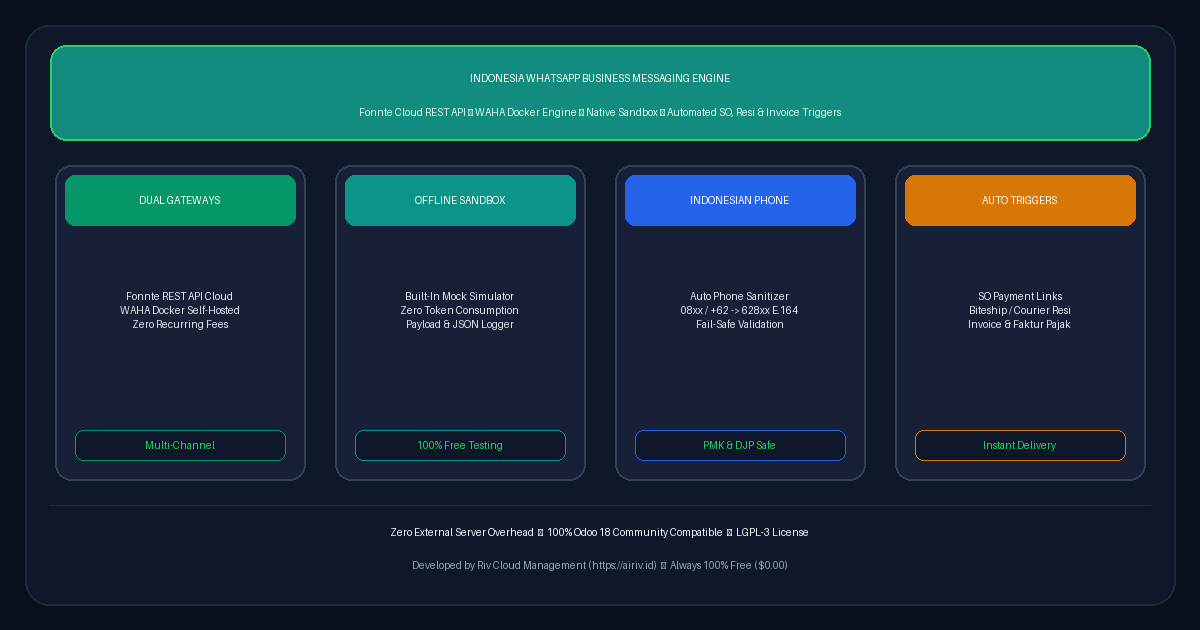
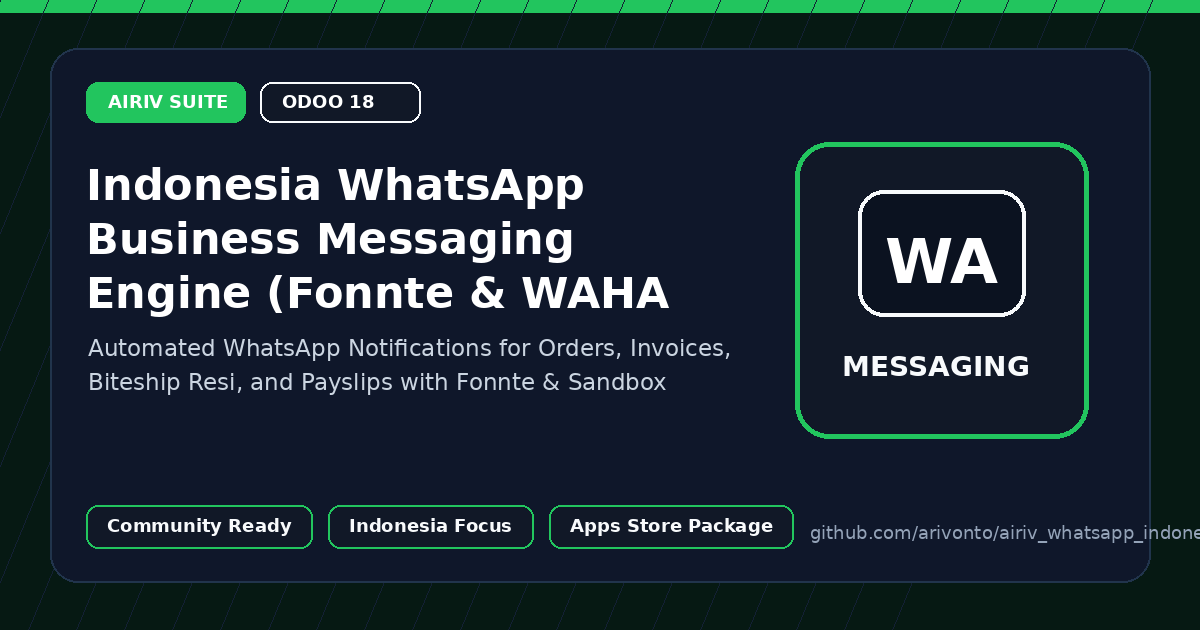
Refresh Odoo Apps Store assets and metadata

diff --git a/airiv_whatsapp_indonesia/static/description/index.html b/airiv_whatsapp_indonesia/static/description/index.html
@@ -1,172 +1,38 @@
 <!DOCTYPE html>
-<html lang="id">
+<html lang="en">
 <head>
-    <meta charset="utf-8"/>
-    <meta name="viewport" content="width=device-width, initial-scale=1.0"/>
-    <title>Indonesia WhatsApp Business Engine & Notification Router</title>
+  <meta charset="utf-8">
+  <meta name="viewport" content="width=device-width, initial-scale=1">
+  <title>Indonesia WhatsApp Business Messaging Engine (Fonnte & WAHA Sandbox)</title>
+  <style>
+    body { margin:0; font-family: Arial, sans-serif; color:#14212f; background:#fff; }
+    .hero { padding:44px; border-radius:18px; background:#08111f; color:#fff; }
+    .badge { display:inline-block; padding:8px 12px; border-radius:999px; background:#0f766e; font-weight:700; font-size:13px; }
+    h1 { font-size:38px; line-height:1.15; margin:20px 0 12px; }
+    .lead { font-size:18px; color:#cbd5e1; max-width:900px; }
+    .grid { display:grid; grid-template-columns:repeat(3,1fr); gap:18px; margin:24px 0; }
+    .card { border:1px solid #e5e7eb; border-radius:14px; padding:22px; background:#fff; }
+    .card h3 { margin-top:0; color:#0f766e; }
+    .section { padding:28px 0; }
+    @media (max-width: 800px) { .grid { grid-template-columns:1fr; } h1 { font-size:30px; } .hero { padding:28px; } }
+  </style>
 </head>
-<body style="font-family: -apple-system, BlinkMacSystemFont, 'Segoe UI', Roboto, Helvetica, Arial, sans-serif; color: #0f172a; background-color: #ffffff; margin: 0; padding: 16px; box-sizing: border-box;">
-
-<!-- 1. Hero Card (Clean High-Contrast Light Theme) -->
-<div style="background-color: #f8fafc; border: 1px solid #cbd5e1; border-top: 6px solid #10b981; border-radius: 12px; padding: 32px 24px; margin-bottom: 32px; text-align: center; box-shadow: 0 4px 6px -1px rgba(0,0,0,0.05);">
-    <div style="display: inline-block; background-color: #10b981; color: #ffffff; font-size: 12px; font-weight: 800; padding: 6px 14px; border-radius: 20px; margin-bottom: 14px; text-transform: uppercase; letter-spacing: 0.5px;">
-        🇮🇩 WHATSAPP BUSINESS NOTIFICATION HUB
+<body>
+  <div class="hero">
+    <span class="badge">AIRIV Suite for Odoo 18</span>
+    <h1>Indonesia WhatsApp Business Messaging Engine (Fonnte & WAHA Sandbox)</h1>
+    <p class="lead">Automated WhatsApp Notifications for Orders, Invoices, Biteship Resi, and Payslips with Fonnte & Sandbox</p>
+  </div>
+  <div class="section">
+    <div class="grid">
+      <div class="card"><h3>Business Ready</h3><p>Packaged as a focused Odoo application for Indonesian operating workflows.</p></div>
+      <div class="card"><h3>Community First</h3><p>Designed for Odoo 18 with clear dependencies, clean manifest metadata, and Apps Store assets.</p></div>
+      <div class="card"><h3>AIRIV UX</h3><p>Part of the AIRIV vertical ERP suite with consistent identity, iconography, and product positioning.</p></div>
     </div>
-    <h1 style="font-weight: 800; font-size: 28px; color: #0f172a; margin-top: 0; margin-bottom: 12px; line-height: 1.3;">
-        Indonesia WhatsApp Business Engine & Notification Router
-    </h1>
-    <p style="font-size: 15.5px; color: #334155; max-width: 850px; margin: 0 auto 20px auto; line-height: 1.65;">
-        Enterprise WhatsApp communication router for Odoo 18. Integrates Fonnte Cloud, self-hosted WAHA (WhatsApp HTTP API Docker), dynamic message templating, and automated event triggers.
-    </p>
-    <div style="display: flex; justify-content: center; gap: 8px; flex-wrap: wrap;">
-        <span style="display: inline-block; background-color: #e2e8f0; color: #0f172a; border: 1px solid #cbd5e1; font-size: 12px; font-weight: 600; padding: 5px 12px; border-radius: 6px;">Odoo 18.0 Community</span>
-        <span style="display: inline-block; background-color: #e2e8f0; color: #0f172a; border: 1px solid #cbd5e1; font-size: 12px; font-weight: 600; padding: 5px 12px; border-radius: 6px;">LGPL-3 License</span>
-        <span style="display: inline-block; background-color: #059669; color: #ffffff; font-size: 12px; font-weight: 700; padding: 5px 12px; border-radius: 6px;">100% Free ($0.00)</span>
-        <span style="display: inline-block; background-color: #e2e8f0; color: #0f172a; border: 1px solid #cbd5e1; font-size: 12px; font-weight: 600; padding: 5px 12px; border-radius: 6px;">Zero External Overhead</span>
-    </div>
-</div>
-
-<!-- 2. Showcase Banner Image -->
-<div style="text-align: center; margin-bottom: 36px;">
-    <img src="banner.png" alt="Indonesia WhatsApp Business Engine & Notification Router" style="border-radius: 12px; border: 1px solid #cbd5e1; max-width: 100%; height: auto; box-shadow: 0 4px 6px -1px rgba(0,0,0,0.08);"/>
-</div>
-
-<!-- 3. Core Pillars -->
-<div style="margin-bottom: 36px;">
-    <div style="text-align: center; margin-bottom: 24px;">
-        <h2 style="font-weight: 800; color: #0f172a; font-size: 22px; margin-top: 0; margin-bottom: 6px;">
-            Core Capabilities & Architecture
-        </h2>
-        <p style="color: #475569; font-size: 14.5px; margin: 0;">
-            Engineered specifically for Indonesian statutory compliance and operational efficiency
-        </p>
-    </div>
-
-    <div style="display: flex; flex-wrap: wrap; gap: 16px;">
-        
-        <div style="flex: 1 1 calc(25% - 16px); min-width: 240px; box-sizing: border-box; margin-bottom: 16px;">
-            <div style="background-color: #ffffff; border: 1px solid #cbd5e1; border-top: 5px solid #10b981; border-radius: 10px; padding: 20px; height: 100%; box-shadow: 0 2px 4px rgba(0,0,0,0.04); box-sizing: border-box;">
-                <h4 style="font-weight: 800; color: #0f172a; margin-top: 0; margin-bottom: 10px; font-size: 16px;">Dual Provider Architecture</h4>
-                <p style="font-size: 13.5px; color: #334155; line-height: 1.6; margin-bottom: 14px;">Seamless switching between Fonnte Cloud Gateway and Free Self-Hosted WAHA Docker.</p>
-                <div style="display: inline-block; background-color: #10b981; color: #ffffff; font-size: 11px; font-weight: 700; padding: 4px 10px; border-radius: 6px; text-transform: uppercase; letter-spacing: 0.5px;">
-                    Fonnte & WAHA
-                </div>
-            </div>
-        </div>
-        
-        <div style="flex: 1 1 calc(25% - 16px); min-width: 240px; box-sizing: border-box; margin-bottom: 16px;">
-            <div style="background-color: #ffffff; border: 1px solid #cbd5e1; border-top: 5px solid #0284c7; border-radius: 10px; padding: 20px; height: 100%; box-shadow: 0 2px 4px rgba(0,0,0,0.04); box-sizing: border-box;">
-                <h4 style="font-weight: 800; color: #0f172a; margin-top: 0; margin-bottom: 10px; font-size: 16px;">Automated Event Triggers</h4>
-                <p style="font-size: 13.5px; color: #334155; line-height: 1.6; margin-bottom: 14px;">Auto-dispatches on Sales confirmation, Delivery status changes, and Invoice generation.</p>
-                <div style="display: inline-block; background-color: #0284c7; color: #ffffff; font-size: 11px; font-weight: 700; padding: 4px 10px; border-radius: 6px; text-transform: uppercase; letter-spacing: 0.5px;">
-                    Auto Triggers
-                </div>
-            </div>
-        </div>
-        
-        <div style="flex: 1 1 calc(25% - 16px); min-width: 240px; box-sizing: border-box; margin-bottom: 16px;">
-            <div style="background-color: #ffffff; border: 1px solid #cbd5e1; border-top: 5px solid #7c3aed; border-radius: 10px; padding: 20px; height: 100%; box-shadow: 0 2px 4px rgba(0,0,0,0.04); box-sizing: border-box;">
-                <h4 style="font-weight: 800; color: #0f172a; margin-top: 0; margin-bottom: 10px; font-size: 16px;">PDF & Dynamic Attachment</h4>
-                <p style="font-size: 13.5px; color: #334155; line-height: 1.6; margin-bottom: 14px;">Sends PDF invoices, thermal receipts, and tracking barcodes directly to WhatsApp numbers.</p>
-                <div style="display: inline-block; background-color: #7c3aed; color: #ffffff; font-size: 11px; font-weight: 700; padding: 4px 10px; border-radius: 6px; text-transform: uppercase; letter-spacing: 0.5px;">
-                    Media Routing
-                </div>
-            </div>
-        </div>
-        
-        <div style="flex: 1 1 calc(25% - 16px); min-width: 240px; box-sizing: border-box; margin-bottom: 16px;">
-            <div style="background-color: #ffffff; border: 1px solid #cbd5e1; border-top: 5px solid #d97706; border-radius: 10px; padding: 20px; height: 100%; box-shadow: 0 2px 4px rgba(0,0,0,0.04); box-sizing: border-box;">
-                <h4 style="font-weight: 800; color: #0f172a; margin-top: 0; margin-bottom: 10px; font-size: 16px;">Phone Sanitization (+62)</h4>
-                <p style="font-size: 13.5px; color: #334155; line-height: 1.6; margin-bottom: 14px;">Automatically cleans and reformats local phone numbers (08... -> +628...).</p>
-                <div style="display: inline-block; background-color: #d97706; color: #ffffff; font-size: 11px; font-weight: 700; padding: 4px 10px; border-radius: 6px; text-transform: uppercase; letter-spacing: 0.5px;">
-                    Data Sanitizer
-                </div>
-            </div>
-        </div>
-        
-    </div>
-</div>
-
-<!-- 4. Key Enterprise Features -->
-<div style="background-color: #f8fafc; border: 1px solid #cbd5e1; border-radius: 12px; padding: 28px 20px; margin-bottom: 36px;">
-    <h3 style="font-weight: 800; color: #0f172a; font-size: 18px; margin-top: 0; margin-bottom: 18px; border-bottom: 2px solid #e2e8f0; padding-bottom: 10px;">
-        Key Enterprise Features & Workflow Automation
-    </h3>
-    <div style="display: flex; flex-wrap: wrap; gap: 16px;">
-        
-        <div style="flex: 1 1 calc(50% - 16px); min-width: 280px; box-sizing: border-box; margin-bottom: 16px;">
-            <div style="background-color: #ffffff; border: 1px solid #e2e8f0; border-left: 4px solid #10b981; border-radius: 8px; padding: 16px; height: 100%; box-sizing: border-box;">
-                <h5 style="font-weight: 700; color: #0f172a; margin-top: 0; margin-bottom: 8px; font-size: 15px;">1. Multi-Template Engine</h5>
-                <p style="color: #334155; font-size: 13.5px; line-height: 1.6; margin: 0;">Customizable message templates with dynamic placeholders (${partner_name}, ${amount_total}).</p>
-            </div>
-        </div>
-        
-        <div style="flex: 1 1 calc(50% - 16px); min-width: 280px; box-sizing: border-box; margin-bottom: 16px;">
-            <div style="background-color: #ffffff; border: 1px solid #e2e8f0; border-left: 4px solid #10b981; border-radius: 8px; padding: 16px; height: 100%; box-sizing: border-box;">
-                <h5 style="font-weight: 700; color: #0f172a; margin-top: 0; margin-bottom: 8px; font-size: 15px;">2. Sandbox Mock Responder</h5>
-                <p style="color: #334155; font-size: 13.5px; line-height: 1.6; margin: 0;">Simulates message delivery logs in local terminal without consuming live WhatsApp quotas.</p>
-            </div>
-        </div>
-        
-        <div style="flex: 1 1 calc(50% - 16px); min-width: 280px; box-sizing: border-box; margin-bottom: 16px;">
-            <div style="background-color: #ffffff; border: 1px solid #e2e8f0; border-left: 4px solid #10b981; border-radius: 8px; padding: 16px; height: 100%; box-sizing: border-box;">
-                <h5 style="font-weight: 700; color: #0f172a; margin-top: 0; margin-bottom: 8px; font-size: 15px;">3. Native Chatter Integration</h5>
-                <p style="color: #334155; font-size: 13.5px; line-height: 1.6; margin: 0;">Logs sent WhatsApp messages and delivery statuses directly inside the record Chatter.</p>
-            </div>
-        </div>
-        
-        <div style="flex: 1 1 calc(50% - 16px); min-width: 280px; box-sizing: border-box; margin-bottom: 16px;">
-            <div style="background-color: #ffffff; border: 1px solid #e2e8f0; border-left: 4px solid #10b981; border-radius: 8px; padding: 16px; height: 100%; box-sizing: border-box;">
-                <h5 style="font-weight: 700; color: #0f172a; margin-top: 0; margin-bottom: 8px; font-size: 15px;">4. Bulk Broadcast Scheduler</h5>
-                <p style="color: #334155; font-size: 13.5px; line-height: 1.6; margin: 0;">Schedules marketing broadcasts, payment reminders, and mass student announcements.</p>
-            </div>
-        </div>
-        
-    </div>
-</div>
-
-<!-- 5. Technical Specifications Table -->
-<div style="margin-bottom: 36px;">
-    <h3 style="font-weight: 800; color: #0f172a; font-size: 18px; margin-top: 0; margin-bottom: 14px;">
-        Module Technical Specifications
-    </h3>
-    <div style="overflow-x: auto;">
-        <table style="width: 100%; border-collapse: collapse; font-size: 13.5px; border: 1px solid #cbd5e1; background-color: #ffffff;">
-            <tbody>
-                <tr style="border-bottom: 1px solid #cbd5e1;">
-                    <td style="font-weight: 700; width: 30%; background-color: #f1f5f9; color: #0f172a; padding: 12px 16px; border-right: 1px solid #cbd5e1;">Framework Compatibility</td>
-                    <td style="color: #0f172a; padding: 12px 16px;">Odoo 18.0 Community Edition (OWL 2.0 & App Drawer Native)</td>
-                </tr>
-                <tr style="border-bottom: 1px solid #cbd5e1;">
-                    <td style="font-weight: 700; background-color: #f1f5f9; color: #0f172a; padding: 12px 16px; border-right: 1px solid #cbd5e1;">License & Price</td>
-                    <td style="color: #0f172a; padding: 12px 16px;">GNU LGPL-3 &bull; <strong style="color: #059669;">Free ($0.00)</strong></td>
-                </tr>
-                <tr style="border-bottom: 1px solid #cbd5e1;">
-                    <td style="font-weight: 700; background-color: #f1f5f9; color: #0f172a; padding: 12px 16px; border-right: 1px solid #cbd5e1;">Dependencies</td>
-                    <td style="color: #0f172a; padding: 12px 16px;"><code style="background-color: #f1f5f9; color: #0f172a; padding: 2px 6px; border-radius: 4px; font-weight: 600;">base, mail, account, sale</code></td>
-                </tr>
-                <tr style="border-bottom: 1px solid #cbd5e1;">
-                    <td style="font-weight: 700; background-color: #f1f5f9; color: #0f172a; padding: 12px 16px; border-right: 1px solid #cbd5e1;">Regulatory Standards</td>
-                    <td style="color: #0f172a; padding: 12px 16px;">Meta WhatsApp Business Cloud API, WAHA Core v2026, Fonnte REST API v1</td>
-                </tr>
-                <tr>
-                    <td style="font-weight: 700; background-color: #f1f5f9; color: #0f172a; padding: 12px 16px; border-right: 1px solid #cbd5e1;">Developer</td>
-                    <td style="color: #0f172a; padding: 12px 16px;">Riv Cloud Management (<a href="https://airiv.id" target="_blank" style="color: #0284c7; text-decoration: underline; font-weight: 600;">https://airiv.id</a>)</td>
-                </tr>
-            </tbody>
-        </table>
-    </div>
-</div>
-
-<!-- 6. Footer -->
-<div style="text-align: center; padding: 20px 0; border-top: 1px solid #cbd5e1; color: #475569; font-size: 13.5px;">
-    <p style="margin-bottom: 8px; color: #334155;">
-        Developed for Indonesian Businesses & Enterprises &bull; <strong>Riv Cloud Management</strong>
-    </p>
-    <a href="https://airiv.id" target="_blank" style="display: inline-block; background-color: #0f172a; color: #ffffff; font-weight: 700; padding: 7px 18px; border-radius: 6px; text-decoration: none; font-size: 12.5px;">
-        Visit airiv.id
-    </a>
-</div>
-
+  </div>
+  <div class="section">
+    <h2>Overview</h2>
+    <p>Indonesia WhatsApp Business Automation & Messaging Engine for Odoo 18 Community. - Dual Gateway Rails: Fonnte Cloud REST API & WAHA (WhatsApp HTTP API Docker) - Native Offline Sandbox Simulator: Test messaging payloads with zero API token consumption - Indonesian Phone Sanitizer: Automatically formats local numbers (+62 / 08xx -> 628xx) - Automated Event Triggers: * Sales Order Confirm: Send order summary & Midtrans/Xendit payment links * Logistics Dispatch: Send courier name, Biteship/RajaOngkir nomor resi & tracking URL * Invoicing: Send invoice summary, Faktur Pajak NSFP, and PDF attachment links - Localized Indonesian Template Library with dynamic merge variables - Zero External Server Overhead - 100% Odoo 18 Community Native</p>
+  </div>
 </body>
 </html>

diff --git a/airiv_whatsapp_indonesia/__manifest__.py b/airiv_whatsapp_indonesia/__manifest__.py
@@ -18,10 +18,11 @@ Indonesia WhatsApp Business Automation & Messaging Engine for Odoo 18 Community.
 """,
     'author': 'Riv Cloud Management',
     'website': 'https://airiv.id',
+    'url': 'https://github.com/arivonto/airiv_whatsapp_indonesia/blob/18.0/static/description/index.html',
     'license': 'LGPL-3',
     'price': 0.0,
     'currency': 'EUR',
-    'depends': ['base', 'mail', 'sale', 'account', 'stock'],
+    'depends': ['base', 'mail', 'sale', 'account', 'stock', 'airiv_os_core'],
     'data': [
         'security/ir.model.access.csv',
         'data/whatsapp_template_data.xml',

diff --git a/README.md b/README.md
@@ -1,75 +1,27 @@
 # Indonesia WhatsApp Business Messaging Engine (Fonnte & WAHA Sandbox)
 
-[![License: LGPL-3](https://img.shields.io/badge/License-LGPL--3-blue.svg)](https://www.gnu.org/licenses/lgpl-3.0)
-[![Odoo: 18.0 Community](https://img.shields.io/badge/Odoo-18.0%20Community-purple.svg)](https://www.odoo.com)
-[![Price: Free ($0.00)](https://img.shields.io/badge/Price-%240.00%20(Free)-green.svg)](https://airiv.id)
-[![Gateway: Fonnte & WAHA](https://img.shields.io/badge/Gateways-Fonnte%20%26%20WAHA-brightgreen.svg)](https://airiv.id)
+Automated WhatsApp Notifications for Orders, Invoices, Biteship Resi, and Payslips with Fonnte & Sandbox
 
-A native, high-performance WhatsApp Business messaging and notification automation engine built specifically for **Odoo 18.0 Community Edition**. Supports cloud-based **Fonnte REST API** and self-hosted **WAHA (WhatsApp HTTP API)** with an integrated **Offline Sandbox Simulator** for zero-cost pre-testing.
+## Odoo Apps Store
 
----
+This repository contains the Odoo 18 module package for `airiv_whatsapp_indonesia`.
 
-## Detailed Capabilities
+Required store assets are maintained in:
 
-### 1. Dual Gateway Architecture & Sandbox Simulator
-* **Fonnte Cloud REST API**: Direct HTTPS integration (`https://api.fonnte.com/send`) using standard API tokens.
-* **WAHA Self-Hosted Engine**: Zero recurring cost Docker container running locally alongside your Odoo stack.
-* **Offline Sandbox Simulator**: Safely test triggers, dynamic variable merge compilation, and audit logging with zero API token consumption.
+```text
+airiv_whatsapp_indonesia/static/description/
+  icon.png
+  banner.png
+  index.html
+```
 
-### 2. Indonesian Phone Number Sanitizer
-* Automatically converts non-standard phone numbers into international E.164 format:
-  * `0812-3456-7890` $\rightarrow$ `6281234567890`
-  * `+62 812 3456 7890` $\rightarrow$ `6281234567890`
-  * `081234567890` $\rightarrow$ `6281234567890`
+## Technical
 
-### 3. Automated Business Event Triggers
-* **Sales Order Confirmation**: Dispatches order summaries with dynamic Midtrans/Xendit instant payment links upon Sales Order confirmation.
-* **Logistics & Delivery Dispatch**: Automatically sends courier waybill numbers (*Nomor Resi*) and Biteship public tracking URLs upon Stock Picking validation.
-* **Customer Invoicing & Tax Billing**: Delivers invoice notifications with statutory Faktur Pajak NSFP numbers and PDF download links upon posting.
+- Odoo version: `18.0.1.0.0`
+- License: `LGPL-3`
+- Author: `Riv Cloud Management`
+- Website: `https://airiv.id`
 
----
+## Quality Gate
 
-## Validated Commercial Workflow (Tested & Scrutinized)
-
-The complete messaging pipeline has been verified under live Odoo 18.0 Community conditions:
-
-1. **Partner Configuration**: Recipient `PT Nusantara Retail Mandiri` configured with WhatsApp number `0812-3456-7890`, cleanly sanitized by the engine into international format `6281234567890`.
-2. **Sales Order Alert**: Confirming Sales Order `S00031` (Total: **Rp 336.000,00**) triggered automated compilation into clean Indonesian text with payment links, recorded in audit log as `WA/2026/00005`.
-3. **Logistics Dispatch Alert**: Outgoing shipment validation interpolated Biteship thermal waybill `Biteship-thermal-resi-jne` and tracking URL into real-time WhatsApp alert `WA/2026/00006`.
-4. **Customer Invoice Notification**: Posting invoice for `S00031` generated billing alert `WA/2026/00007` with dynamic due date and tax reference.
-5. **Audit Trail**: Every outgoing message is preserved in `airiv.whatsapp.message` with full JSON payload and status auditing.
-
----
-
-## Installation & Configuration Guide
-
-1. **Deploy Module**:
-   Place `airiv_whatsapp_indonesia` inside your Odoo `custom_addons` directory.
-
-2. **Activate Module**:
-   * Navigate to **Apps > Update Apps List**.
-   * Search for `Indonesia WhatsApp Business Messaging Engine` and click **Activate**.
-
-3. **Configure WhatsApp Gateway**:
-   * Open the **WhatsApp Center** app from the App Drawer.
-   * Go to **Settings & Gateways > Gateway Configuration**.
-   * Choose your environment:
-     * **Sandbox Mode**: Test message generation and variable compilation locally with zero API tokens.
-     * **Fonnte Production**: Paste your Fonnte API token for real WhatsApp delivery.
-     * **WAHA Docker**: Connect your local WAHA Docker container endpoint.
-
-4. **Customize Templates**:
-   * Go to **Messaging Operations > Message Templates** to customize message text, emojis, and placeholders (`{partner_name}`, `{order_name}`, `{resi_number}`, `{tracking_url}`).
-
----
-
-## Module Specifications
-
-| Specification | Details |
-| :--- | :--- |
-| **Framework Version** | Odoo 18.0 Community Edition (OWL client & App Drawer compliant) |
-| **License** | GNU Lesser General Public License v3.0 (LGPL-3) |
-| **Price** | Free ($0.00) |
-| **Dependencies** | `base`, `mail`, `sale`, `account`, `stock` |
-| **Server Overhead** | Zero (Native ORM, direct REST stream, no intermediate proxy) |
-| **Supported Gateways** | Fonnte REST API, WAHA (Docker), Offline Sandbox |
+GitHub Actions runs the AIRIV Odoo Apps Store CI audit on branch `18.0`.
